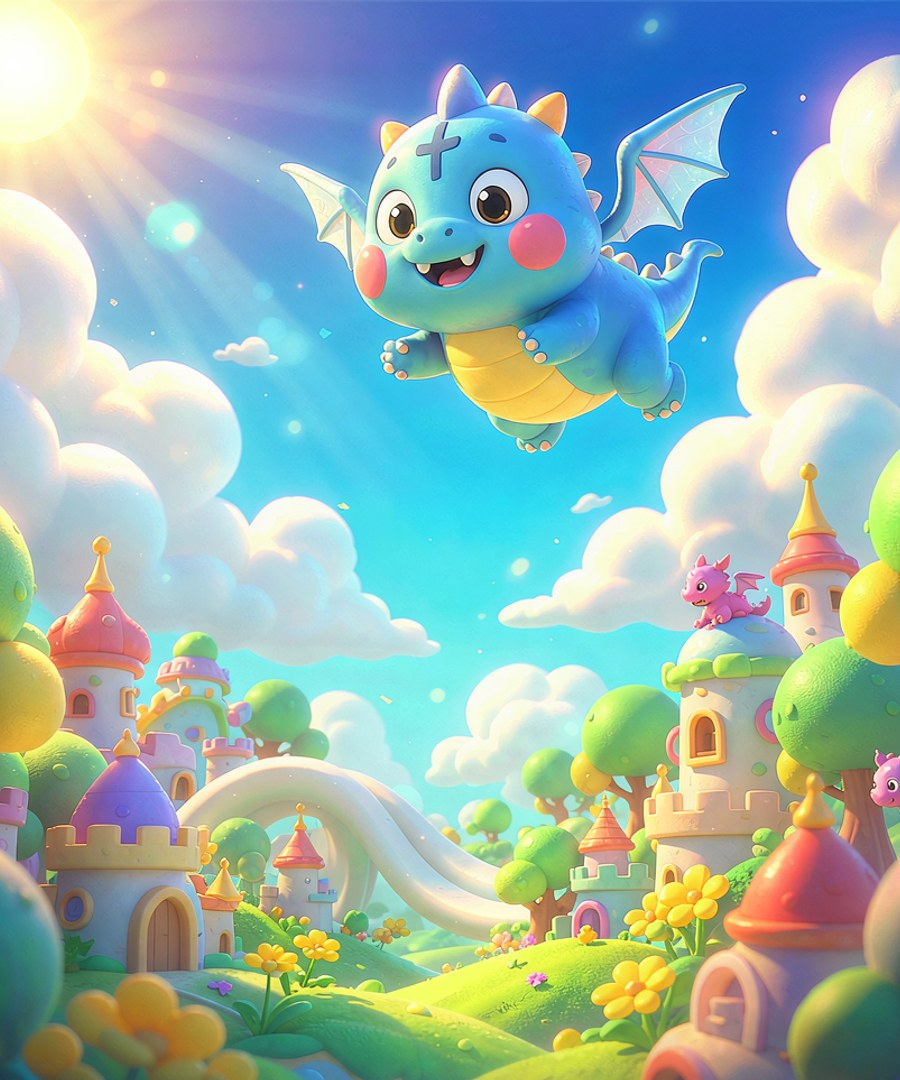
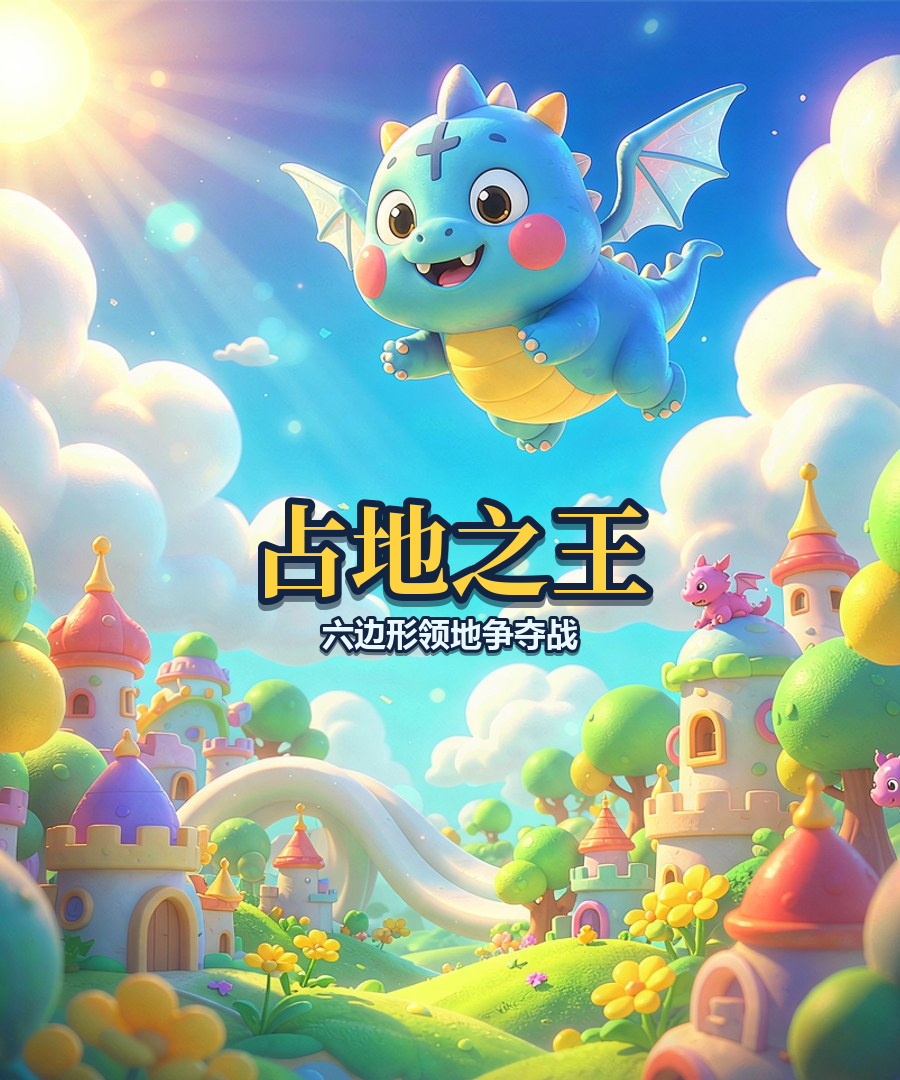
feat(ui): 游戏名称绘入加载背景图并修复背景不显示

Changed region(s): [[0.28, 0.4583, 0.7467, 0.6111]]

diff --git a/src/game/Game.js b/src/game/Game.js
@@ -25,7 +25,7 @@ import { InputSystem } from '../system/InputSystem.js';
 import { RenderSystem } from '../system/RenderSystem.js';
 import { ArtSystem } from '../system/ArtSystem.js';
 import { FontSystem } from '../system/FontSystem.js';
-import { SCREEN_BG, LOADING_BG, LOADING_LOGO, RESULT_BG,
+import { SCREEN_BG, LOADING_BG, RESULT_BG,
   ART_HOOKS, ART_PREFIXES, ART_ENTRIES } from '../system/ArtManifest.js';
 import { APP_ASSETS, FONT_CARDS, RACE_KEYS_ALL, UNIT_SMALL_KEYS_ALL,
   BATTLE_TONE_BY_LAYOUT, BG_BY_SCREEN, TERRITORY_EDGE } from '../system/ArtLayer.js';
@@ -2516,65 +2516,23 @@ export class Game {
       ctx.closePath();
     };
 
-    // 1) 主视觉：晴空乐园 Q版城堡插画，全亮度铺满（之前的 0.45 把这张图压废了）
+    // 1) 主视觉：晴空乐园竖屏插画全亮度铺满。
+    //    2026-11-21：游戏名称/副标题已直接绘制进 assets/bg/loading_art.jpg（飞龙下方云海区），
+    //    界面层不再叠 Logo 徽章与标题文字——避免 UI 层文字与插画主体打架，且名称随图缩放永不错位。
     ctx.fillStyle = '#5BB8E8'; // 图片未就绪时的兜底天蓝
     ctx.fillRect(0, 0, w, h);
     ArtSystem.draw(ctx, LOADING_BG, 0, 0, w, h, { fit: 'cover', alpha: 1 });
 
-    // 2) 顶部深色蒙层：承托 Logo 与标题，避免明快插画冲淡文字（也不再压在幼龙脸上）
-    const top = ctx.createLinearGradient(0, 0, 0, h * 0.52);
-    top.addColorStop(0, 'rgba(14,26,46,0.86)');
-    top.addColorStop(0.62, 'rgba(14,26,46,0.42)');
-    top.addColorStop(1, 'rgba(14,26,46,0)');
-    ctx.fillStyle = top;
-    ctx.fillRect(0, 0, w, h * 0.52);
-
-    // 3) 底部蒙层：承托进度卡
+    // 2) 底部蒙层：仅承托进度卡（顶部不再有 UI 文字，撤掉顶部蒙层让插画保持明快）
     const bot = ctx.createLinearGradient(0, h * 0.52, 0, h);
     bot.addColorStop(0, 'rgba(14,26,46,0)');
     bot.addColorStop(1, 'rgba(14,26,46,0.55)');
     ctx.fillStyle = bot;
     ctx.fillRect(0, h * 0.52, w, h * 0.48);
 
-    // 4) Logo 徽章卡：云白圆角卡 + 内贴 logo + 金边 + 投影（替代突兀的裸贴蓝方块）
-    const badge = Math.min(132, w * 0.32);
-    const bx = (w - badge) / 2;
-    const by = h * 0.12;
-    ctx.save();
-    ctx.shadowColor = 'rgba(0,0,0,0.32)';
-    ctx.shadowBlur = 18;
-    ctx.shadowOffsetY = 8;
-    roundRectPath(bx, by, badge, badge, badge * 0.22);
-    ctx.fillStyle = '#EAF8FF';
-    ctx.fill();
-    ctx.restore();
-    ctx.save();
-    roundRectPath(bx + 5, by + 5, badge - 10, badge - 10, badge * 0.18);
-    ctx.clip();
-    ArtSystem.draw(ctx, LOADING_LOGO, bx + 5, by + 5, badge - 10, badge - 10, { fit: 'cover', alpha: 1 });
-    ctx.restore();
-    roundRectPath(bx, by, badge, badge, badge * 0.22);
-    ctx.strokeStyle = '#FFD23F';
-    ctx.lineWidth = 2.5;
-    ctx.stroke();
-
+    // 3) 进度卡：云白半透明圆角卡 + 金黄→活力橙渐变胶囊进度条
     ctx.textAlign = 'center';
     ctx.textBaseline = 'middle';
-
-    // 5) 标题：金色 + 深色描边，移到蒙层区（自定义字体未就绪时回退系统 sans-serif）
-    const titleY = by + badge + Math.min(46, h * 0.05);
-    ctx.font = FontSystem.font(Math.min(30, w * 0.075), 'bold', 'title');
-    ctx.lineWidth = 5;
-    ctx.strokeStyle = 'rgba(15,23,42,0.85)';
-    ctx.strokeText('⚔ 占地之王', w / 2, titleY);
-    ctx.fillStyle = '#FFD23F';
-    ctx.fillText('⚔ 占地之王', w / 2, titleY);
-
-    ctx.font = Math.min(14, w * 0.033) + 'px sans-serif';
-    ctx.fillStyle = '#EAF8FF';
-    ctx.fillText('六边形领地争夺战', w / 2, titleY + 30);
-
-    // 6) 进度卡：云白半透明圆角卡 + 金黄→活力橙渐变胶囊进度条
     const cardW = Math.min(260, w * 0.72);
     const cardH = 84;
     const cx = (w - cardW) / 2;
@@ -2624,7 +2582,10 @@ export class Game {
     const LOADING_MIN_MS = 3000;
     const startTs = Date.now();
 
-    // 0. 先绘制启动加载画面（避免配置加载期间白屏）
+    // 0. 先发起加载页素材预载，再绘制首帧。
+    //    必须在首帧之前 preload：加载页期间主循环尚未启动（见 2815 行 requestAnimationFrame(loop)），
+    //    若等到配置加载完才预载，图片异步完成时就再没有重绘机会 → 背景/名称永远看不到。
+    ArtSystem.preload([LOADING_BG]);
     this.renderLoadingScreen(0);
 
     // 1. 加载 JSON 配置（带进度回调，每加载一个文件刷新加载画面）
@@ -2632,11 +2593,18 @@ export class Game {
       this.renderLoadingScreen(done / total);
     });
 
-    // 1.1 强制加载页展示满 3 秒：配置加载完先显示 100%，再补齐剩余等待时长
+    // 1.1 强制加载页展示满 3 秒：期间持续重绘，让异步完成的背景图真正显示出来
     this.renderLoadingScreen(1);
     const elapsed = Date.now() - startTs;
     if (elapsed < LOADING_MIN_MS) {
-      await new Promise(res => setTimeout(res, LOADING_MIN_MS - elapsed));
+      // 旁挂重绘定时器：加载页期间主循环尚未启动，靠它让异步加载完成的背景真正显示。
+      // 与等待 Promise 解耦——Node 测试环境即使不驱动定时器，setTimeout 仍会正常结束。
+      const repaint = setInterval(() => this.renderLoadingScreen(1), 60);
+      try {
+        await new Promise(res => setTimeout(res, LOADING_MIN_MS - elapsed));
+      } finally {
+        clearInterval(repaint);
+      }
     }
 
     // 2. 同步配置到静态导出变量
@@ -2667,7 +2635,6 @@ export class Game {
 
       if (_on) {
         ArtSystem.preload(Object.values(SCREEN_BG));
-        ArtSystem.preload([LOADING_BG, LOADING_LOGO]);
         // 全量可达：34 个元素钩子 + 10 个杂项特效 + 21 个图标族首项一并预加载，
         // 保证 ART_HOOKS / ART_PREFIXES 全部有运行时图片通道；失败静默不影响渲染。
         ArtSystem.preload(Object.values(ART_HOOKS));
